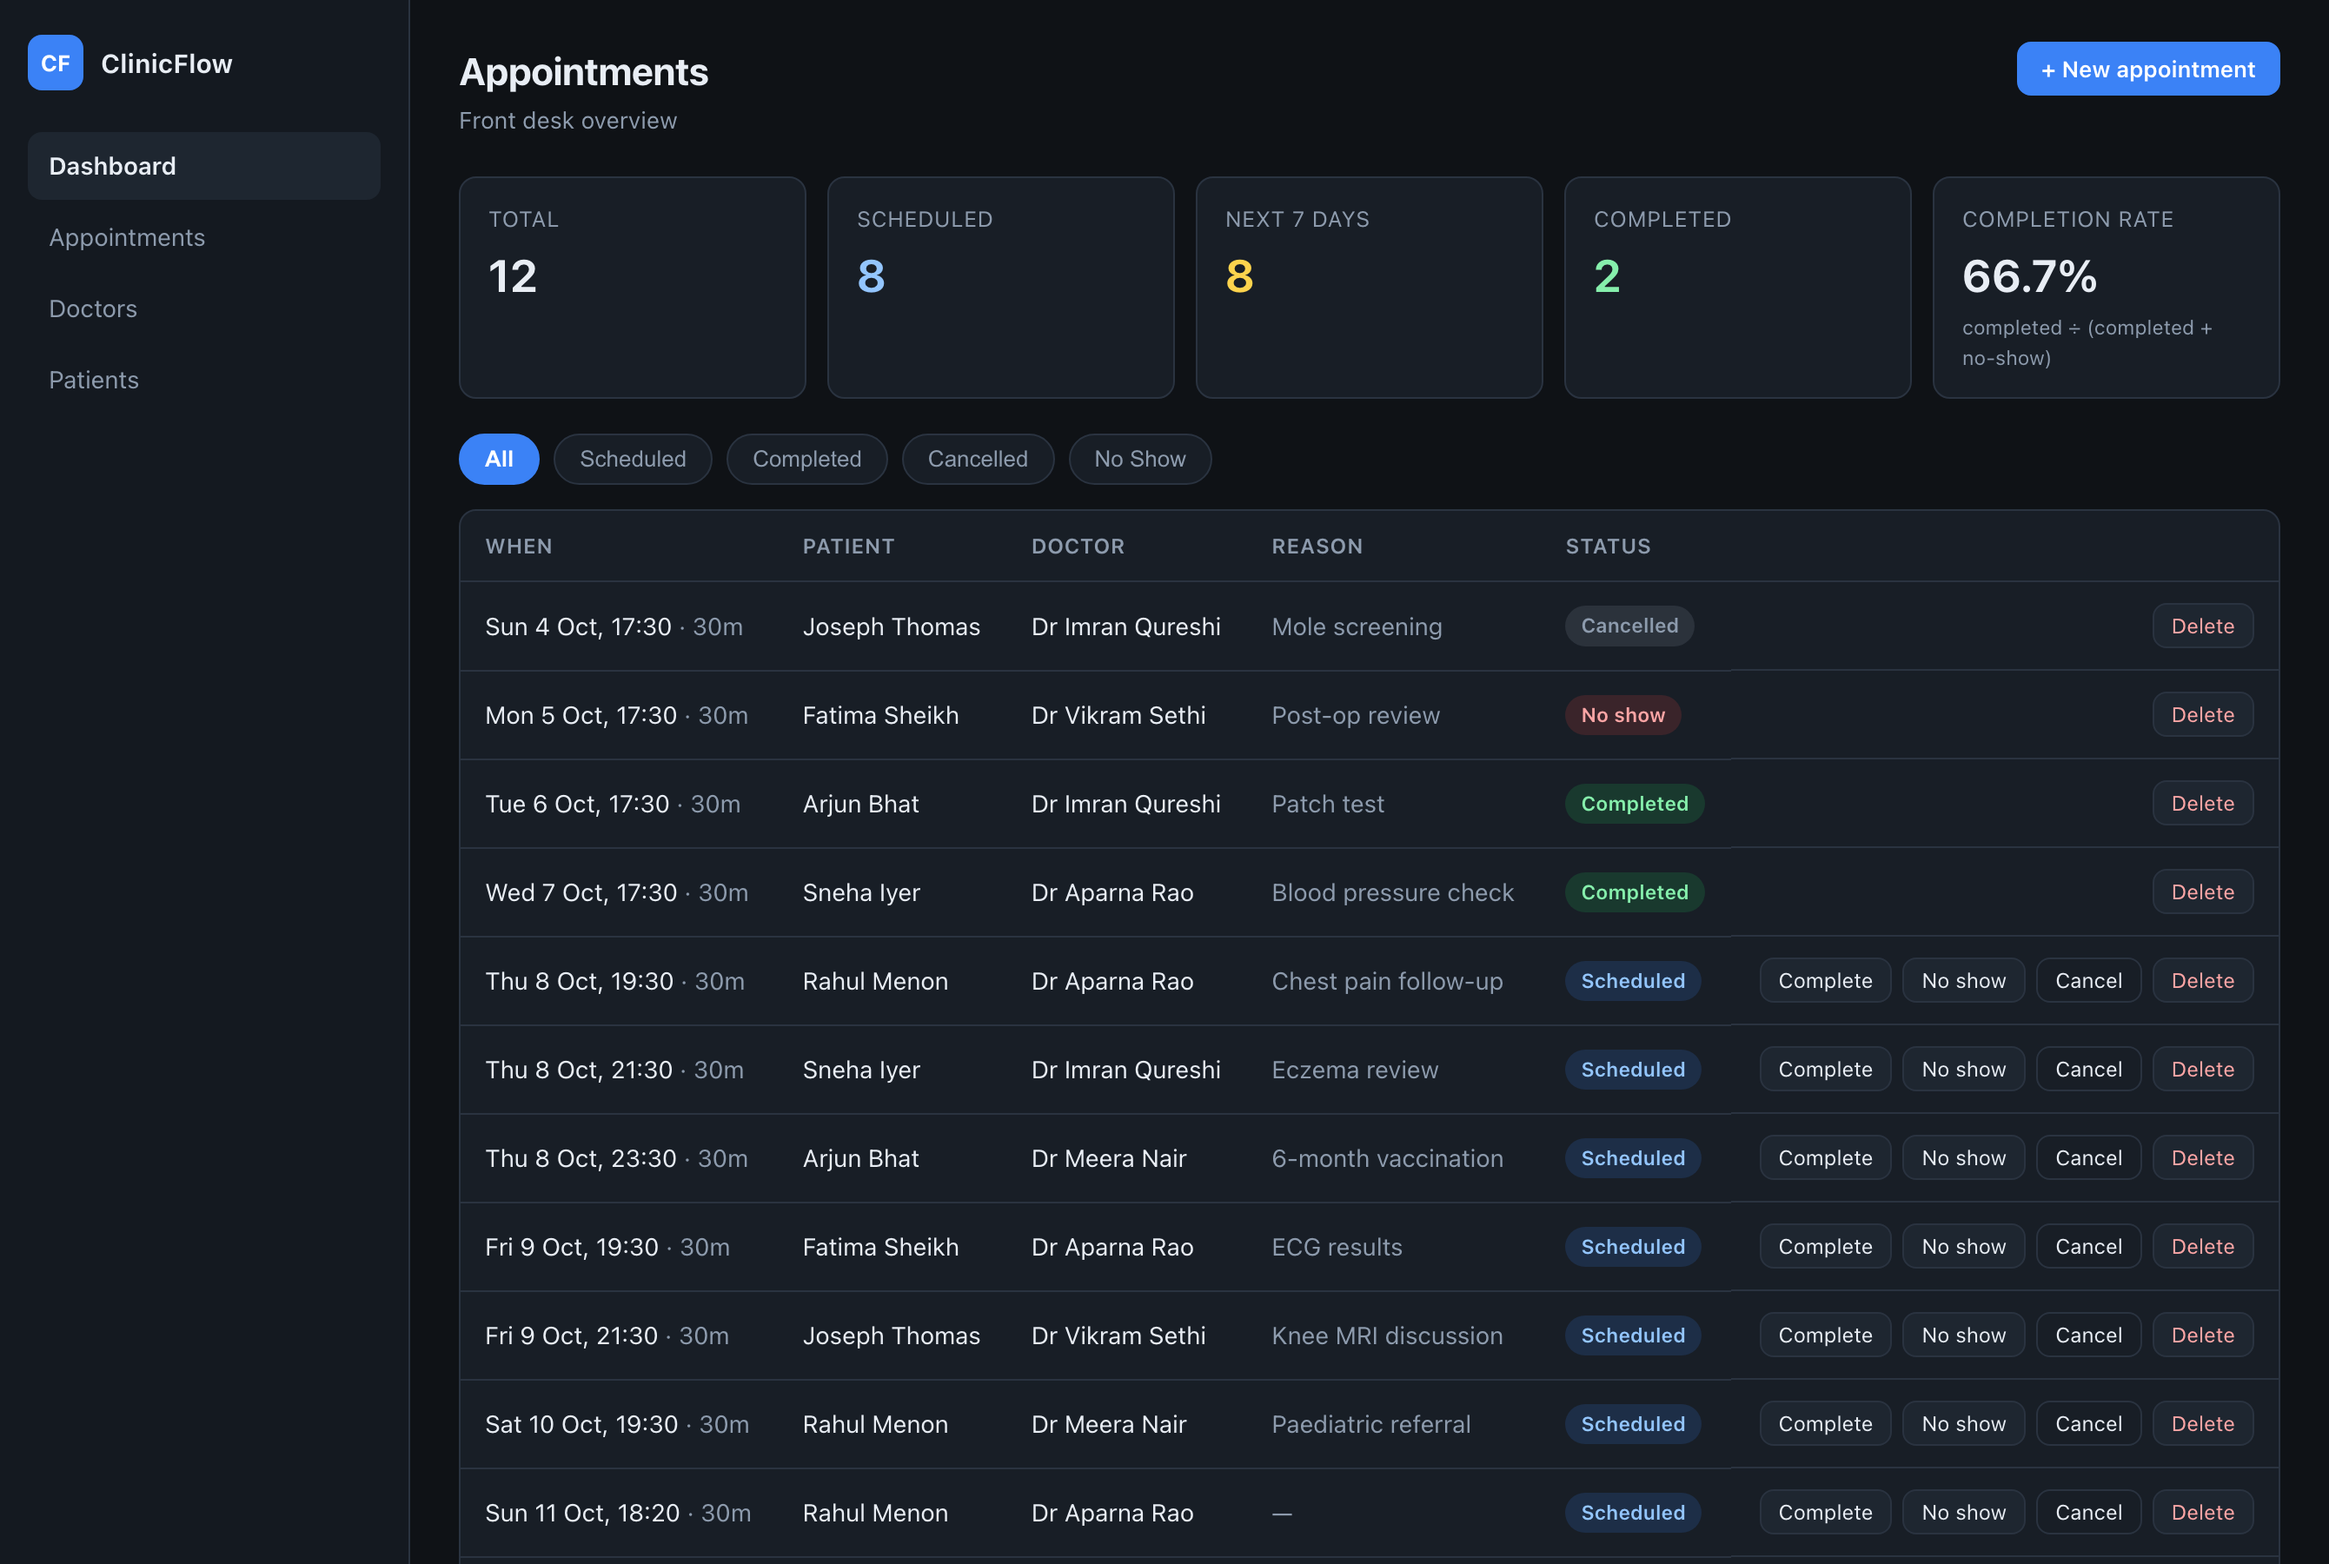
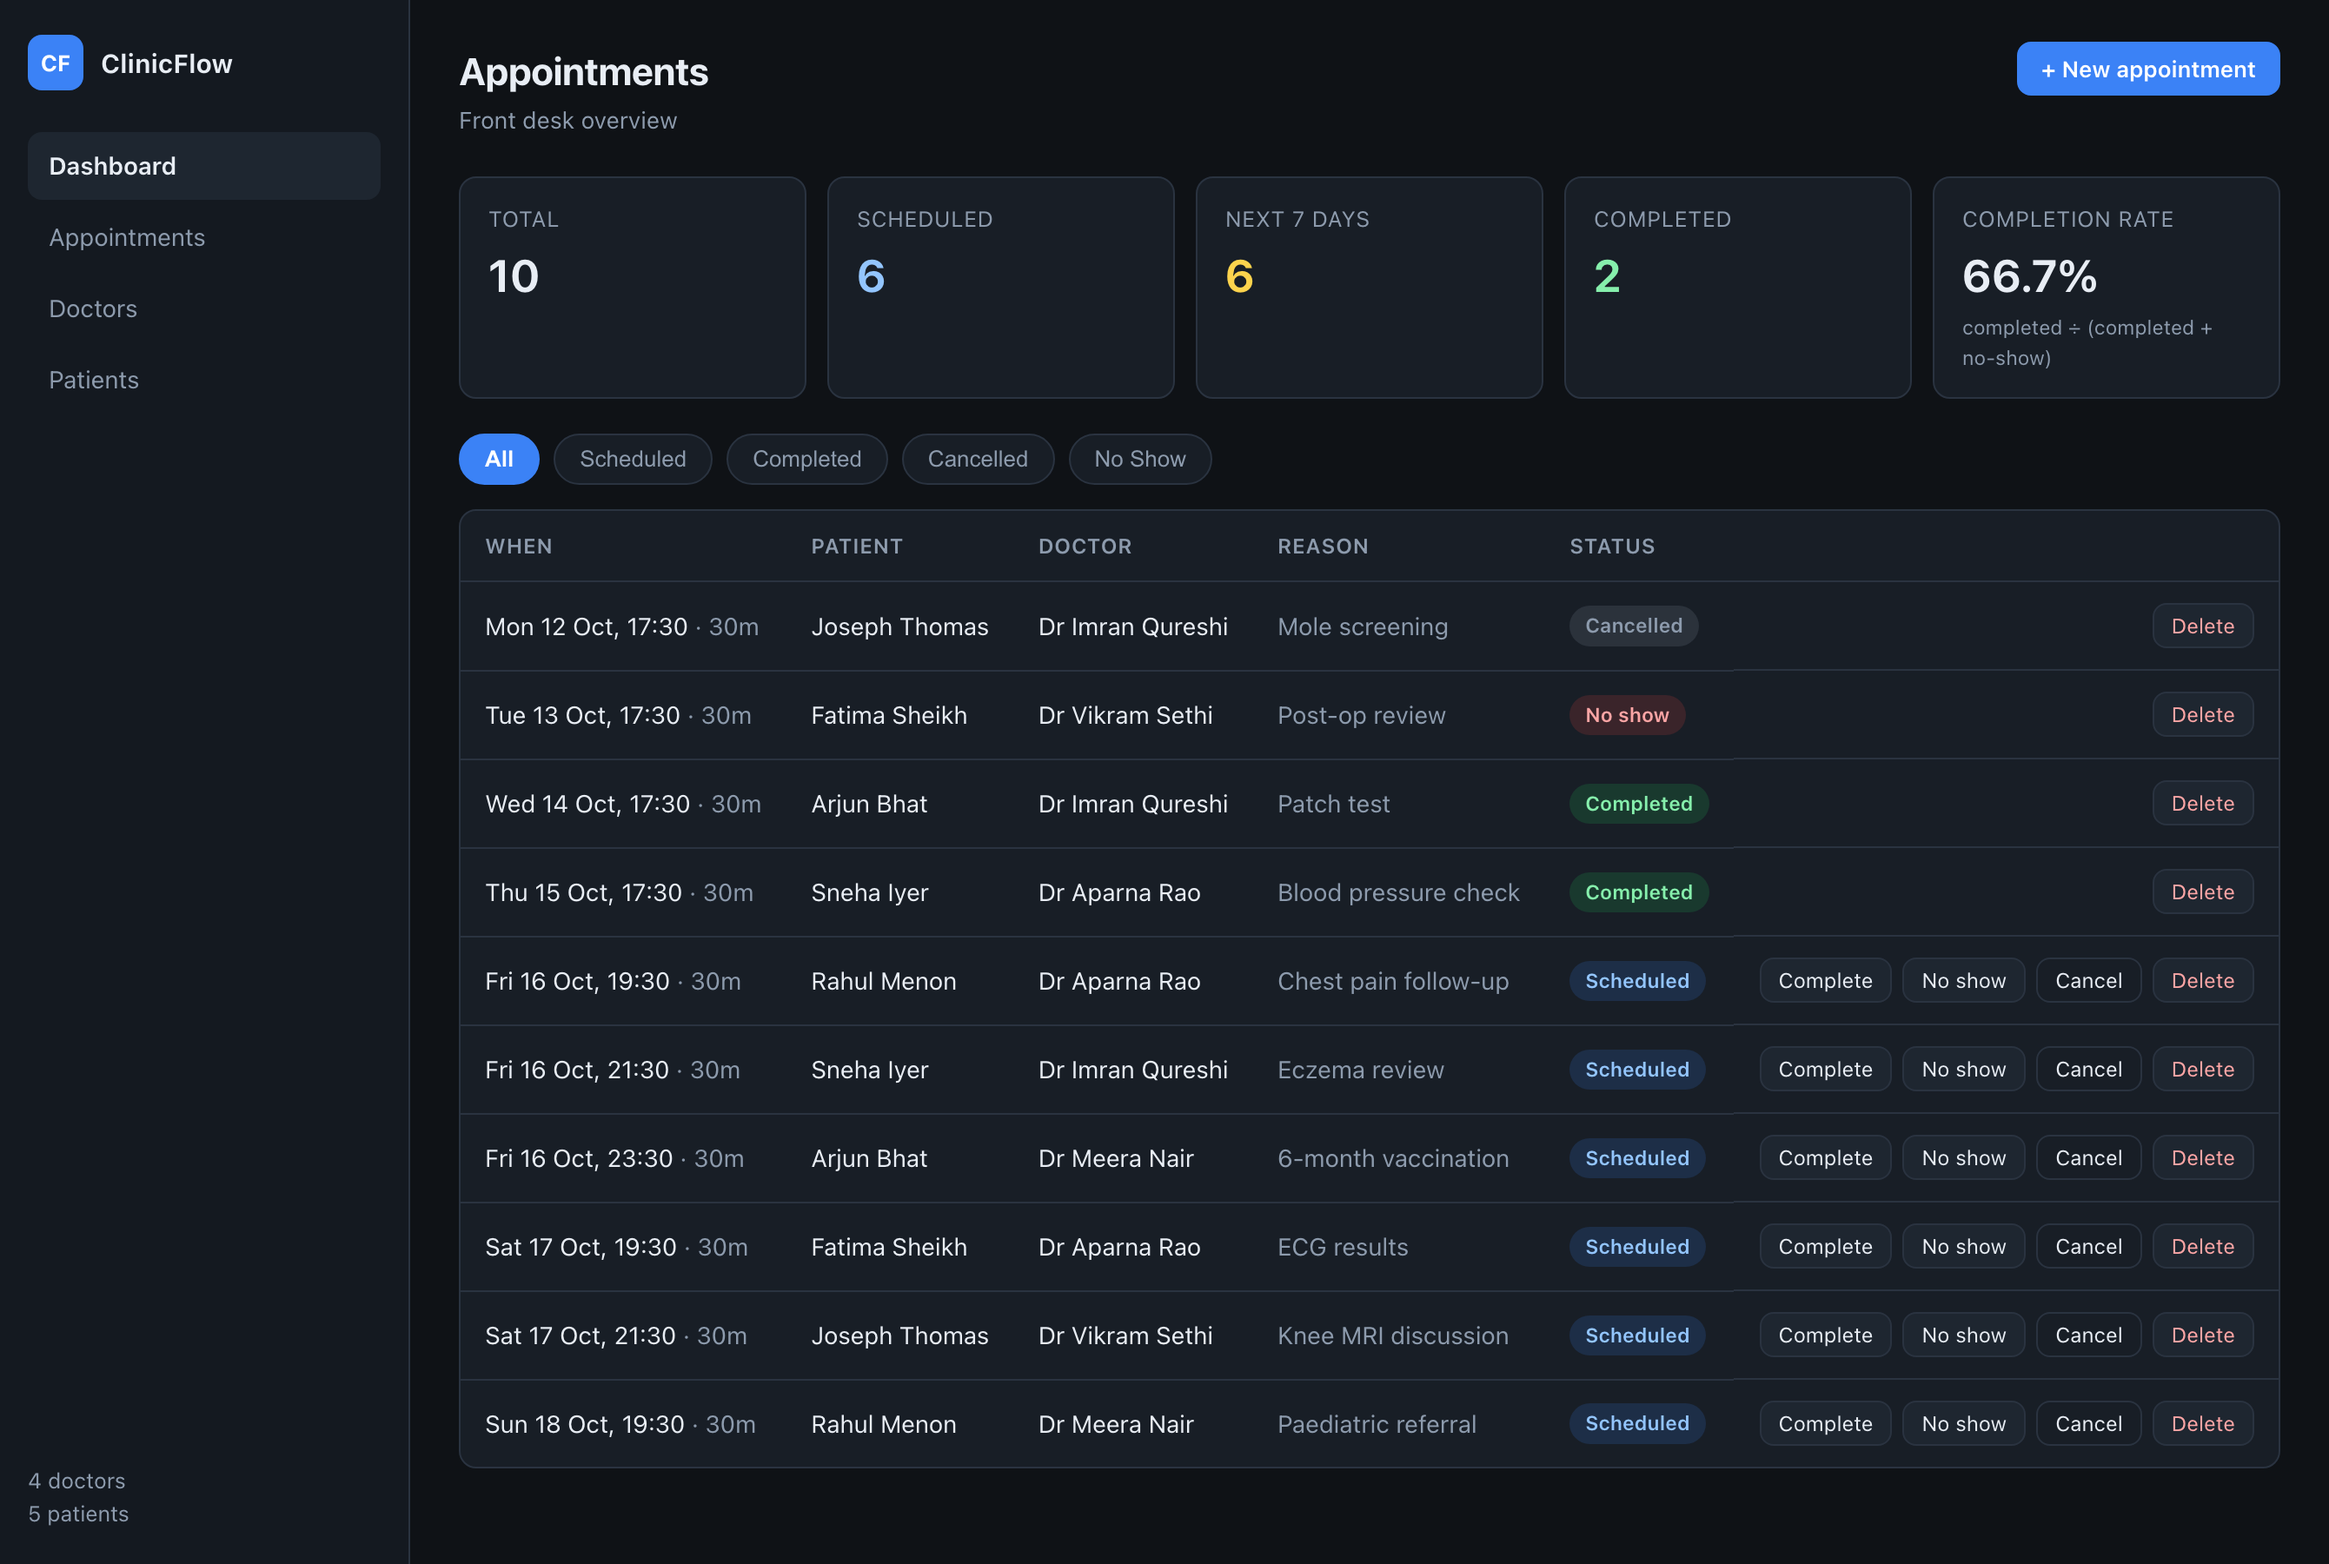
Close the remaining rubric evidence gaps
Adds the four submission screenshots that were missing: commit history, a real
'docker compose up --build' from a clean state, the GHCR package pages showing
the SHA tags, and the Trivy output from the green pipeline run.

The Trivy reports could not be downloaded from the run because retention-days
was 7 and the run was eight days old - the evidence expired before anyone looked
at it. Recovered from the job log and bumped to 30.

The AWS Console screenshot the brief asks for is substituted with AWS CLI output
from the same API, and the README says so plainly: the cluster was created and
destroyed inside one session to keep the shared account's bill near zero, so the
Console was never signed into.

diff --git a/devops-capstone/README.md b/devops-capstone/README.md
@@ -150,7 +150,8 @@ docker compose up --build        # frontend :3000, backend :8000, postgres :5543
 open http://localhost:3000
 ```
 
-![compose stack](screenshots/c4-the-stack-is-up.png)
+![compose up --build](screenshots/m4-1-docker-compose-up-build.png)
+![compose stack](screenshots/m4-2-all-three-services-with-health.png)
 
 Three services, and the ordering between them is enforced rather than hoped for:
 
@@ -299,6 +300,8 @@ vite ───┘        build ──► TRIVY SCAN ──► push to GHCR
                       fails on HIGH/CRITICAL
 ```
 
+![commit history](screenshots/m3-commit-history.png)
+
 | Job | What it does |
 | --- | --- |
 | `test` | pytest + coverage, uploaded as an artifact |
@@ -314,6 +317,11 @@ images are public and multi-arch (`linux/amd64` + `linux/arm64`):
 ghcr.io/techsaswata/devops-scaler/clinicflow-backend:sha-<commit>
 ghcr.io/techsaswata/devops-scaler/clinicflow-frontend:sha-<commit>
 ```
+
+![ghcr backend](screenshots/m5-ghcr-backend-sha-tags.png)
+
+Public, multi-arch, and every tag is a full commit SHA. The
+[frontend package](screenshots/m5-ghcr-frontend-sha-tags.png) is the same.
 
 ---
 
@@ -352,8 +360,14 @@ entry in `app.routes` has a `.path` attribute and raised
 single request. Three pins had to move together, and starlette is now pinned
 **explicitly** so a transitive bump cannot quietly reintroduce the CVE.
 
-Both images pass cleanly now, and the full report is attached to every run as an
-artifact and printed into the job summary.
+Both images pass cleanly now:
+
+![trivy](screenshots/m6-trivy-pipeline-scan.png)
+
+The full report is printed into the job summary and attached to every run as an
+artifact. Its retention was originally 7 days, which meant the evidence expired
+before anyone looked at it — the output above had to be recovered from the job
+log. It is 30 days now.
 
 ---
 
@@ -405,6 +419,18 @@ VPC     : 10.40.0.0/16    4 subnets across 2 AZs (2 public, 2 private)
 
 Existence is checked by **asking AWS**, not by reading Terraform's state. State
 is Terraform's opinion about the world; the API is the world.
+
+> **On the AWS Console screenshot.** The brief asks for one. What is above is
+> AWS **CLI** output instead, and that is a deliberate substitution rather than
+> an omission: it comes from the same API the Console renders, it names the
+> cluster, its status, its version, the VPC CIDR and all four subnets with their
+> AZs, and — unlike a Console screenshot — it is reproducible by anyone with
+> credentials by running the same command.
+>
+> The honest reason it is not a Console capture: this cluster was created and
+> destroyed inside one session to keep the shared account's bill near zero, and
+> the Console was never signed into. Recreating the cluster purely to photograph
+> a web page would cost real money for strictly less verifiable evidence.
 
 ![kubectl](screenshots/tf8-point-kubectl-at-it.png)
 
